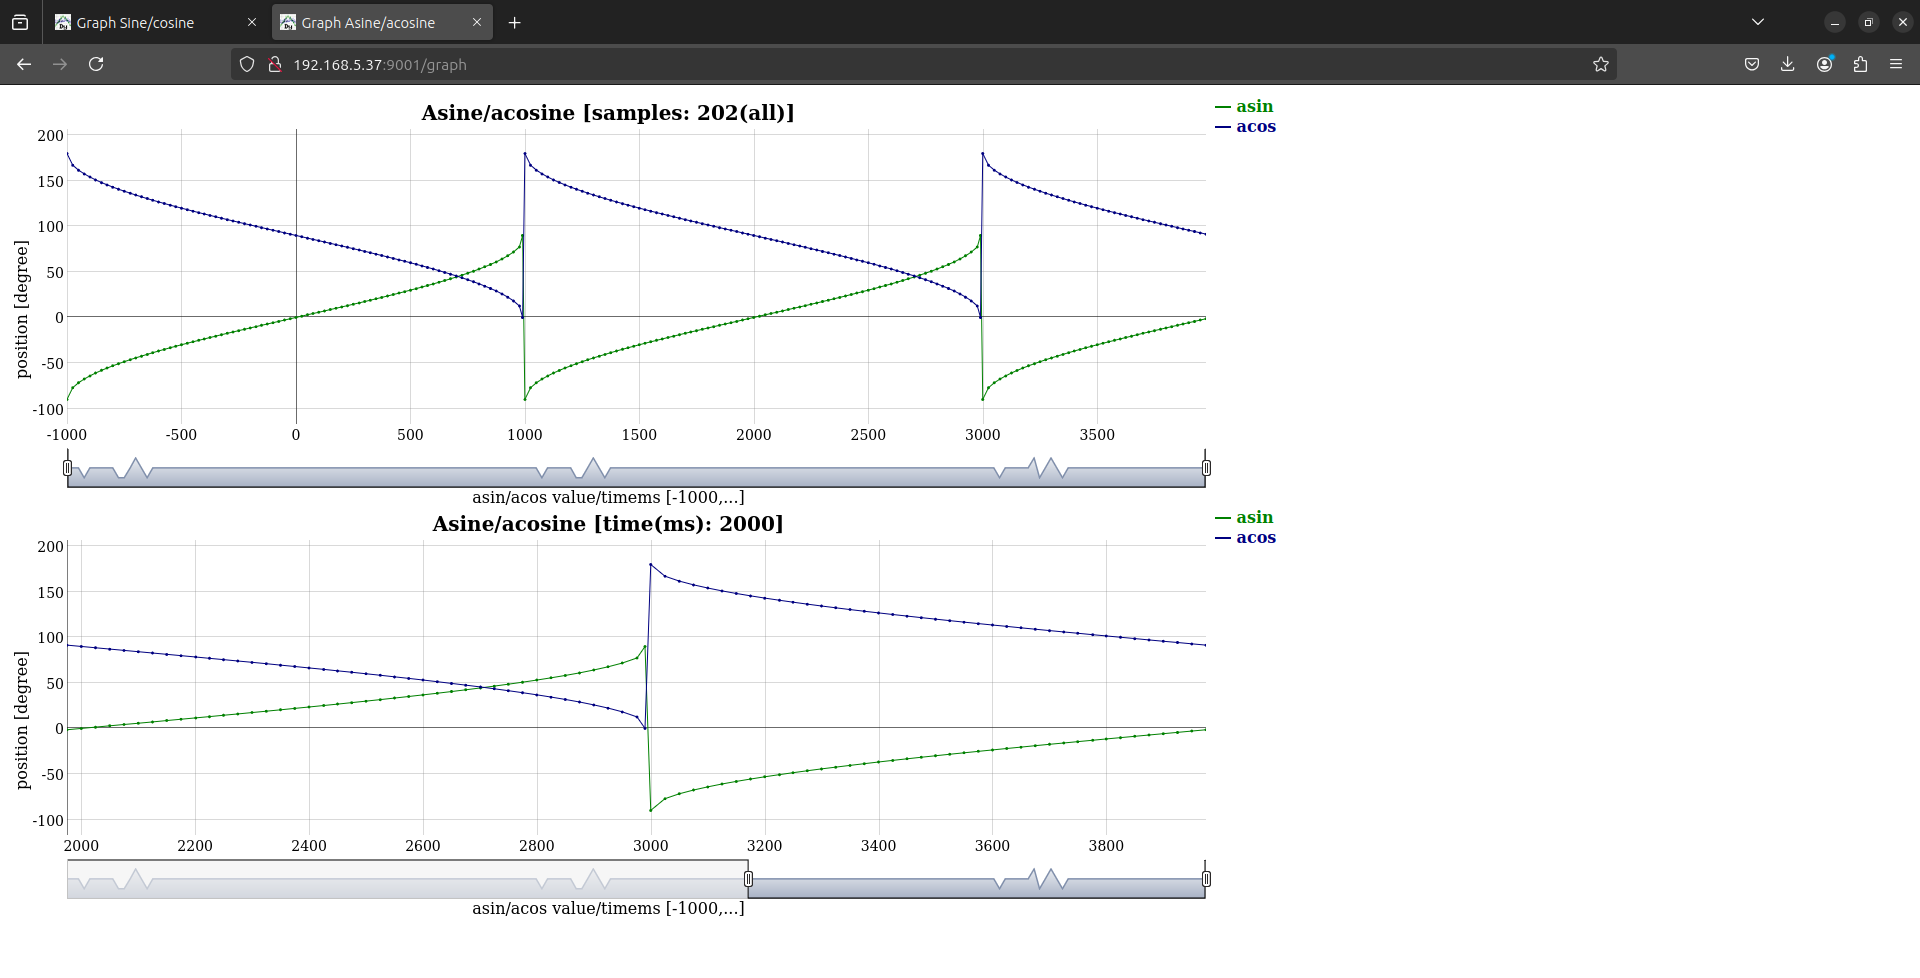
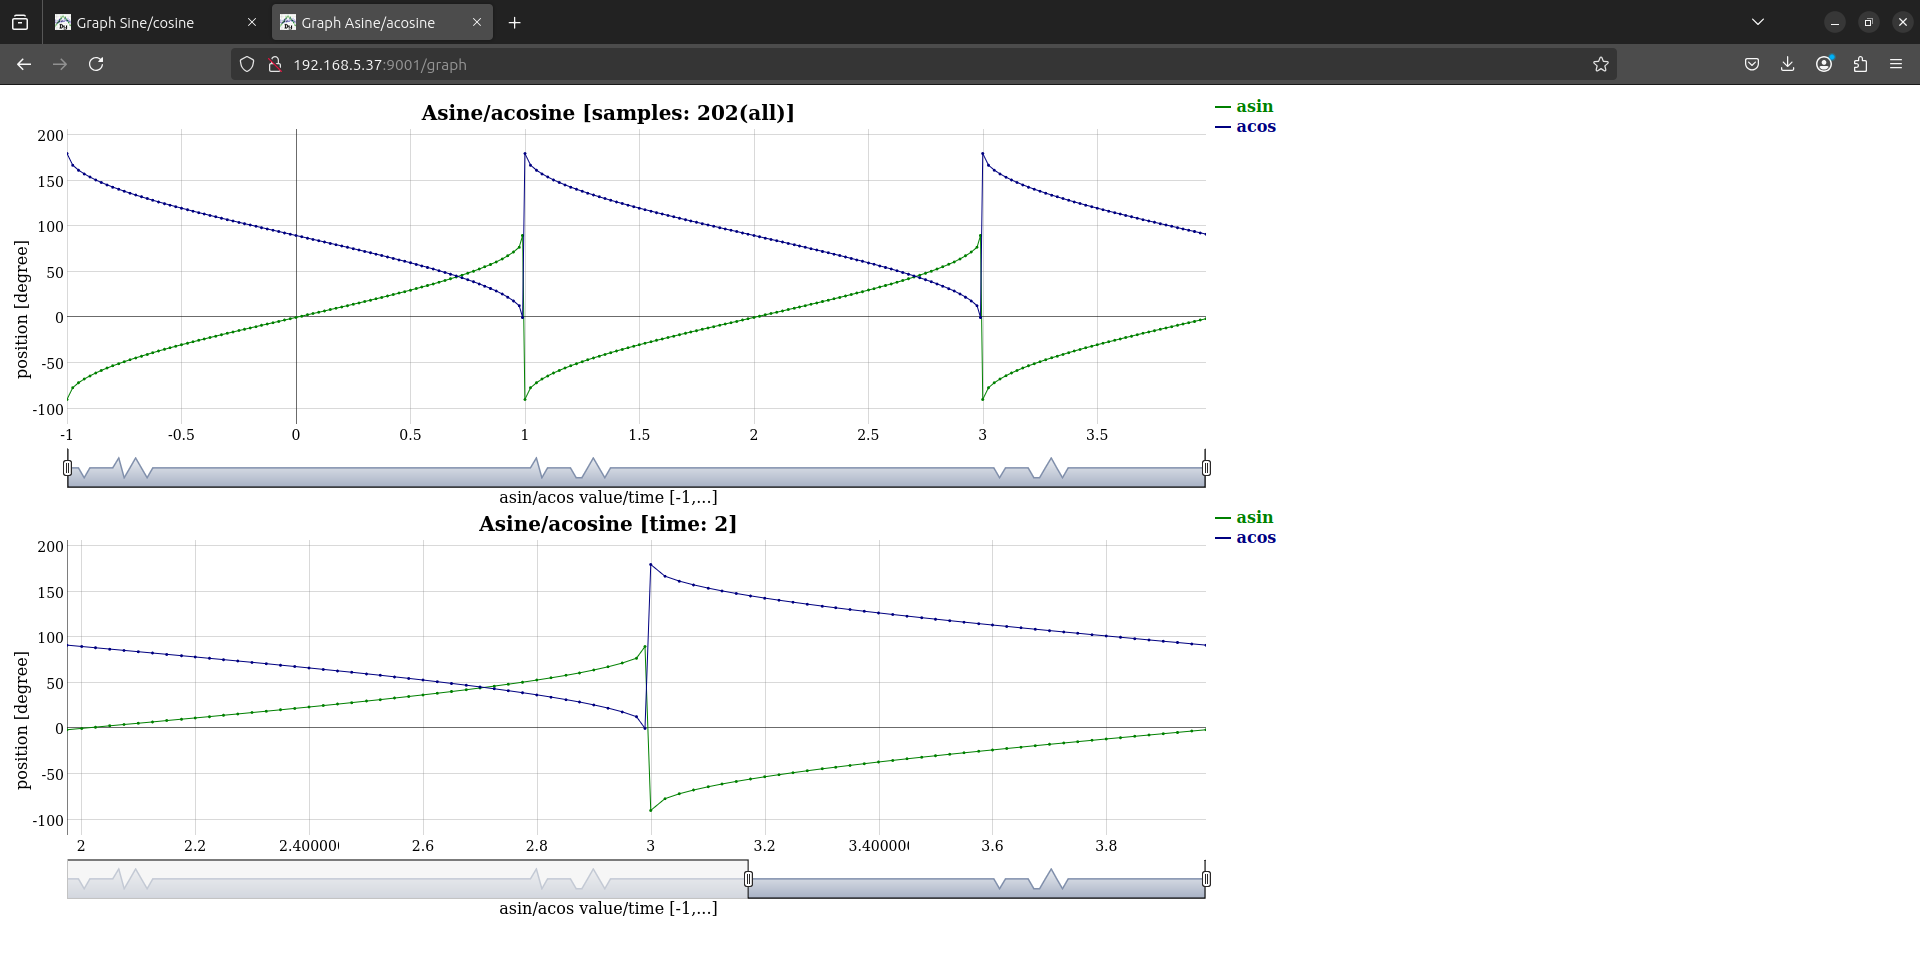
Adding range type specifier for dygraph rangetime iface

diff --git a/src/dygraph/rangetime/graph.cpp b/src/dygraph/rangetime/graph.cpp
@@ -17,11 +17,11 @@ class Htmlcode
 {
   public:
     Htmlcode(const std::vector<std::string>& labels, const graphsize_t& size,
-             std::chrono::milliseconds timems,
+             std::chrono::milliseconds timems, rangetype rangetype,
              std::chrono::milliseconds rangems,
              const std::vector<std::string>& datapath) :
         refreshms{timems / 2},
-        rangems{rangems}, datapath{datapath}
+        datapath{datapath}
     {
         if (this->datapath.empty())
         {
@@ -43,6 +43,25 @@ class Htmlcode
             this->size = size;
         }
 
+        switch (rangetype)
+        {
+            case rangetype::microseconds:
+                range = std::chrono::duration_cast<std::chrono::microseconds>(
+                            rangems)
+                            .count();
+                break;
+            case rangetype::milliseconds:
+                range = std::chrono::duration_cast<std::chrono::milliseconds>(
+                            rangems)
+                            .count();
+                break;
+            case rangetype::seconds:
+                range =
+                    std::chrono::duration_cast<std::chrono::seconds>(rangems)
+                        .count();
+                break;
+        }
+
         htmlcode = genhtmlcode();
     }
 
@@ -54,7 +73,7 @@ class Htmlcode
   private:
     static constexpr uint32_t alllabels{3};
     std::chrono::milliseconds refreshms{50ms};
-    std::chrono::milliseconds rangems{250ms};
+    uint32_t range;
     const std::vector<std::string> datapath;
     std::string title{"User data graph"};
     std::string xlabel{"x axis"};
@@ -146,14 +165,13 @@ class Htmlcode
 				    \"" +
                data + "\", {\n\
 				    title: '" +
-               title + " [time(ms): " + std::to_string(rangems.count()) +
-               "]',\n\
+               title + " [time: " + std::to_string(range) + "]',\n\
 				    xlabel: ' " +
                xlabel + "', \n\
 				    ylabel: '" +
                ylabel + "',\n\
                     dateWindow: [0, " +
-               std::to_string(rangems.count()) + " ],\n\
+               std::to_string(range) + " ],\n\
 				    legend: 'always',\n\
 				    labelsDiv: document.getElementById('legendrange'),\n\
 				    labelsSeparateLines: true,\n\
@@ -214,9 +232,9 @@ class Htmlcode
                 var rangestart = grange.xAxisExtremes()[0];\n\
                 var rangeend = grange.xAxisExtremes()[1];\n\
                 if ((rangeend - rangestart) > " +
-               std::to_string(rangems.count()) + ") {\n\
+               std::to_string(range) + ") {\n\
                     rangestart = rangeend - " +
-               std::to_string(rangems.count()) + ";\n\
+               std::to_string(range) + ";\n\
                 }\n\
                 grange.updateOptions({\n\
                     'file': \"" +
@@ -245,9 +263,13 @@ struct Graph::Handler
         labels{std::get<std::vector<std::string>>(config)},
         size{std::get<graphsize_t>(config)},
         params{std::get<graphparamsshort_t>(config)}, server{getserver()},
-        data{std::get<2>(std::get<graphparamsshort_t>(params))},
-        html{labels, size, std::get<0>(std::get<graphparamsshort_t>(params)),
-             std::get<1>(std::get<graphparamsshort_t>(params)), data.getnames()}
+        data{std::get<3>(std::get<graphparamsshort_t>(params))},
+        html{labels,
+             size,
+             std::get<0>(std::get<graphparamsshort_t>(params)),
+             std::get<1>(std::get<graphparamsshort_t>(params)),
+             std::get<2>(std::get<graphparamsshort_t>(params)),
+             data.getnames()}
     {
         init(labels);
     }
@@ -256,9 +278,13 @@ struct Graph::Handler
         labels{std::get<std::vector<std::string>>(config)},
         size{std::get<graphsize_t>(config)},
         params{std::get<graphparamsall_t>(config)}, server{getserver()},
-        data{std::get<2>(std::get<graphparamsall_t>(params))},
-        html{labels, size, std::get<0>(std::get<graphparamsall_t>(params)),
-             std::get<1>(std::get<graphparamsall_t>(params)), data.getnames()}
+        data{std::get<3>(std::get<graphparamsall_t>(params))},
+        html{labels,
+             size,
+             std::get<0>(std::get<graphparamsall_t>(params)),
+             std::get<1>(std::get<graphparamsall_t>(params)),
+             std::get<2>(std::get<graphparamsall_t>(params)),
+             data.getnames()}
     {
         init(labels);
     }

diff --git a/examples/dygraph/rangetime/src/dygraph.cpp b/examples/dygraph/rangetime/src/dygraph.cpp
@@ -15,18 +15,24 @@ int main(int argc, char**)
         {
             using namespace graphs::dygraph::rangetime;
             auto graphA = graphs::GraphFactory::create<Graph, configall_t>(
-                {{"Sine/cosine", "position [degree/timems]",
+                {{"Sine/cosine", "position [degree/time]",
                   "sin/cos value [-1,1]"},
                  {1200, 400},
-                 {100ms, 1s, {{"dataa.csv", "pos/timems,sin,cos", 1000}}}});
+                 {100ms,
+                  rangetype::seconds,
+                  180s,
+                  {{"dataa.csv", "pos/timems,sin,cos", 1000}}}});
             auto graphB = graphs::GraphFactory::create<Graph, configshort_t>(
                 {{
                      "Asine/acosine",
-                     "asin/acos value/timems [-1000,...]",
+                     "asin/acos value/time [-1,...]",
                      "position [degree]",
                  },
                  {1200, 400},
-                 {100ms, 2s, {{"datab.csv", "pos/timems,asin,acos"}}}});
+                 {100ms,
+                  rangetype::seconds,
+                  2s,
+                  {{"datab.csv", "pos/timems,asin,acos"}}}});
             graphA->start();
             graphB->start();
 
@@ -44,14 +50,14 @@ int main(int argc, char**)
                         std::fabs(bpos - (-1.0f)) <=
                             std::numeric_limits<decltype(bpos)>::epsilon())
                     {
-                        auto rawtimemssupp = rawtimems - 10.f,
+                        auto rawtimesecsupp = rawtimesec - 0.01f,
                              bpossupp = bpos - (-2.f);
                         auto asin = (std::asin(bpossupp) * 180.f) /
                                     std::numbers::pi_v<double>,
                              acos = (std::acos(bpossupp) * 180.f) /
                                     std::numbers::pi_v<double>;
-                        auto recordBsupp = std::to_string(rawtimemssupp) + "," +
-                                           std::to_string(asin) + "," +
+                        auto recordBsupp = std::to_string(rawtimesecsupp) +
+                                           "," + std::to_string(asin) + "," +
                                            std::to_string(acos);
                         graphB->add(recordBsupp);
                     }
@@ -65,10 +71,10 @@ int main(int argc, char**)
                          acos = (std::acos(bpos) * 180.f) /
                                 std::numbers::pi_v<double>;
 
-                    auto recordA = std::to_string(rawtimems) + "," +
+                    auto recordA = std::to_string(apos) + "," +
                                    std::to_string(sin) + "," +
                                    std::to_string(cos),
-                         recordB = std::to_string(rawtimems) + "," +
+                         recordB = std::to_string(rawtimesec) + "," +
                                    std::to_string(asin) + "," +
                                    std::to_string(acos);
                     graphA->add(recordA);

diff --git a/inc/graphs/interfaces/dygraph/rangetime/graph.hpp b/inc/graphs/interfaces/dygraph/rangetime/graph.hpp
@@ -8,11 +8,18 @@
 namespace graphs::dygraph::rangetime
 {
 
-using graphparamsall_t = std::tuple<std::chrono::milliseconds,
+enum class rangetype
+{
+    microseconds,
+    milliseconds,
+    seconds
+};
+
+using graphparamsall_t = std::tuple<std::chrono::milliseconds, rangetype,
                                     std::chrono::milliseconds, dataparamsall_t>;
 
 using graphparamsshort_t =
-    std::tuple<std::chrono::milliseconds, std::chrono::milliseconds,
+    std::tuple<std::chrono::milliseconds, rangetype, std::chrono::milliseconds,
                dataparamsshort_t>;
 
 using configshort_t =
